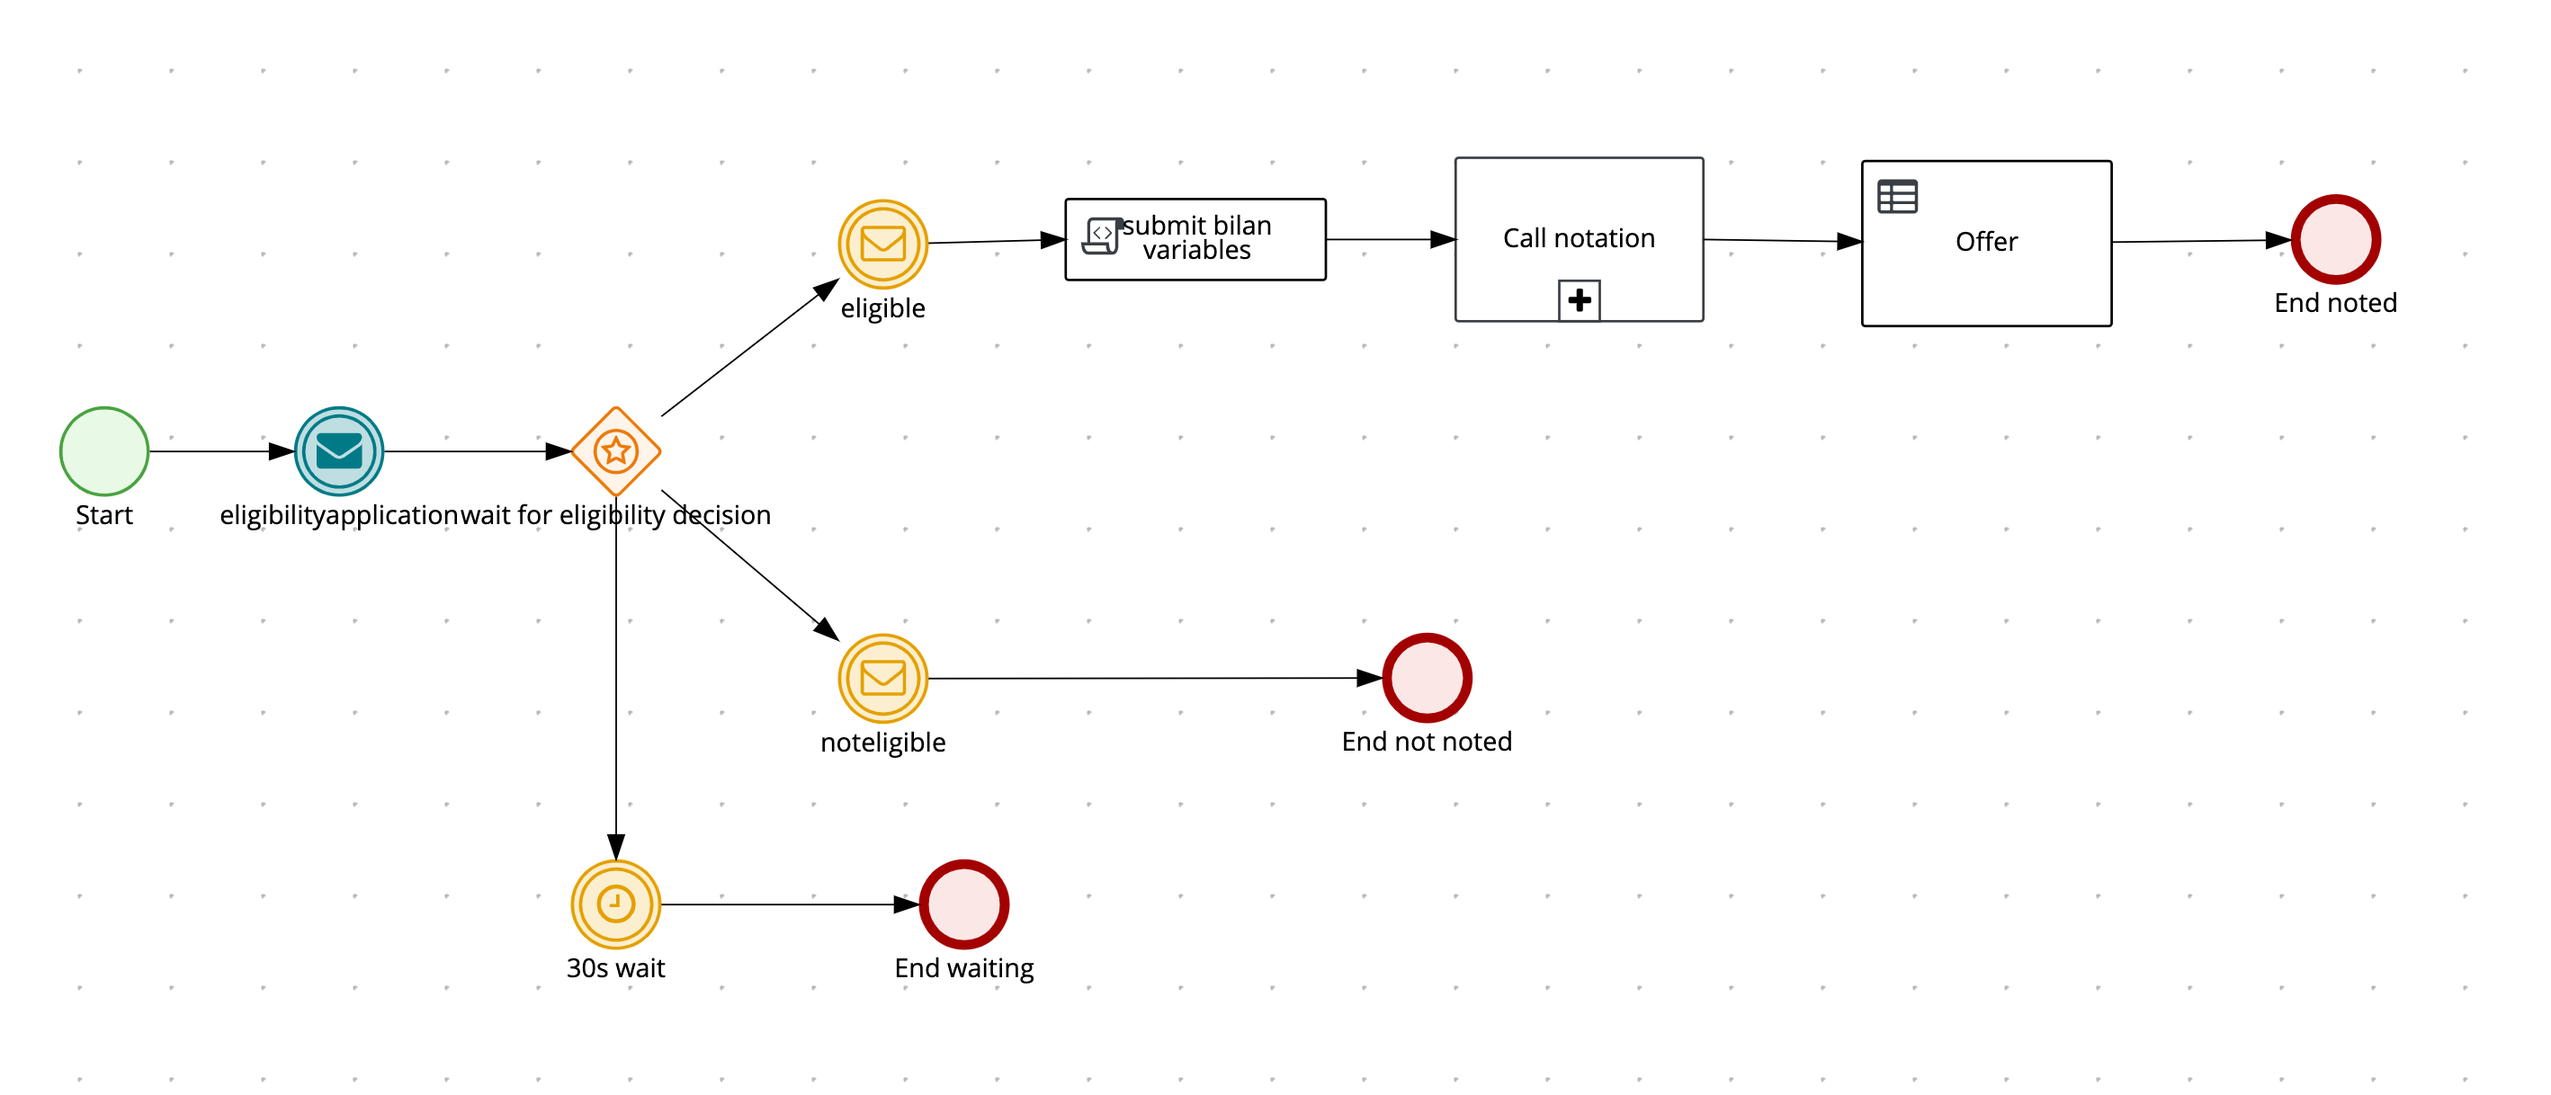
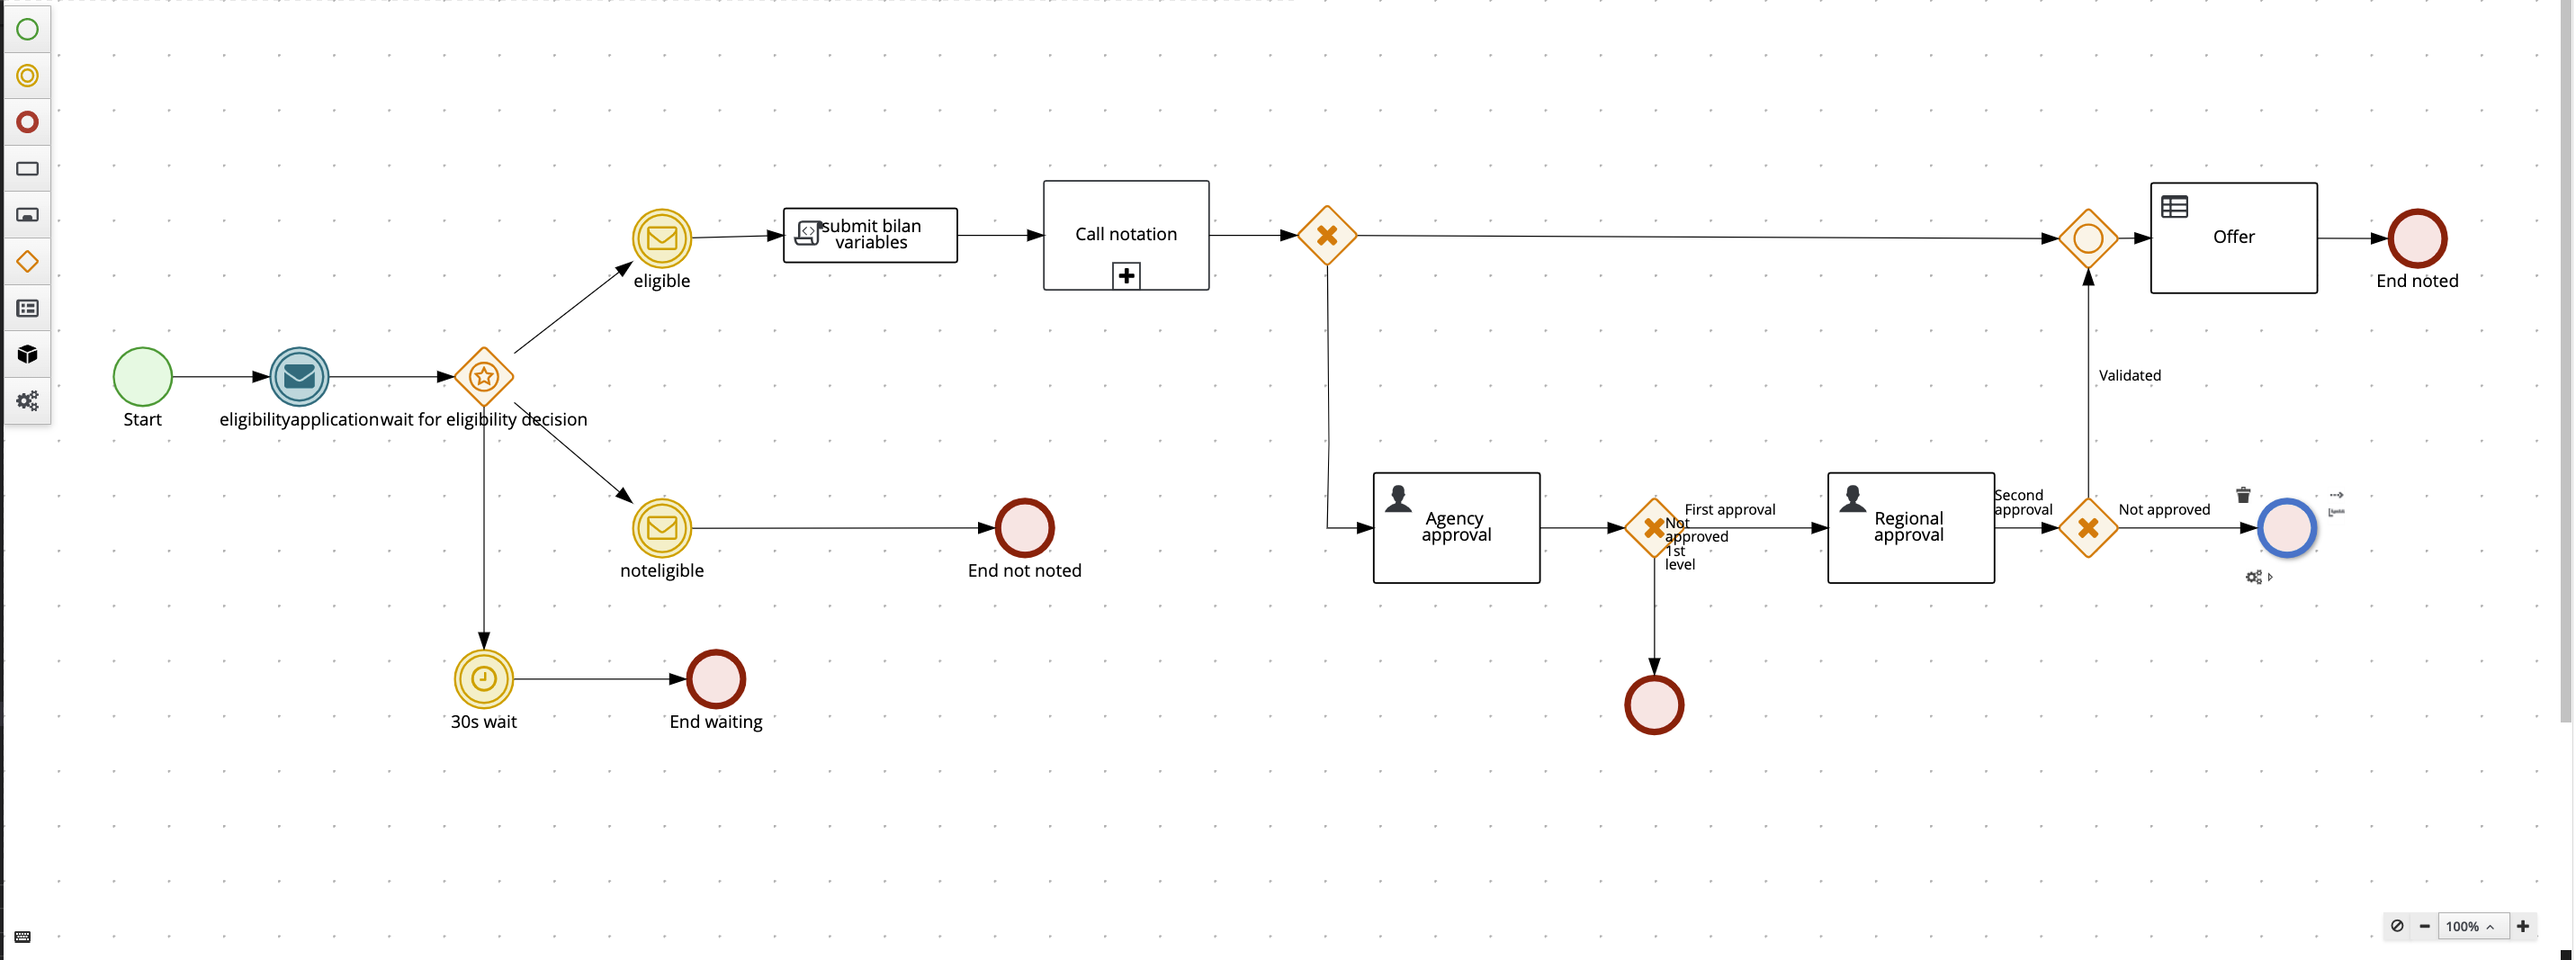
typo images

diff --git a/README.md b/README.md
@@ -20,10 +20,12 @@ If so, the “loan process” invokes the “scoring process” to calculate a R
 Finally, the « loan process » makes an offer for
 « The applicant », which is composed of a credit rate and a term (for example 2% and 36 months).
 
+If the guidance is "To review", the decision to accept or refuse the requet must be approved by 2 level of managers (agency and regional). 
+
 
 Clear ? Yes ? If not,  maybe the following diagram will gives more clarity on the orchestration between services. 
 
-![Archi](./img/archi-fonctionnelle-bbank-loan.png) 
+![Archi](./img/archi-fonctionnelle-bbank-apps-loan.png) 
 
 Let’s go deeper on each service :
 
@@ -130,7 +132,7 @@ git clone -b v2 https://github.com/mouachan/bbank-apps.git
 ### Install RHSSO Operator
 Navigate to the OLM Web Console to navigate to the RHSSO Operator using menu on the left side and following Operators → OperatorHub. Then, focus on the search input box and type « rhsso »  : 
 
-![Keycloak Operator HUB](./img/keycloak-ohub.png) 
+![RHSSO Operator HUB](./img/rhsso-ohub.png) 
 
 Next, navigate to RHSSO Operator and click on it. Next, follow the instructions on the screen. Make sure you’ve chosen « bank » namespace when selecting the Subscription in the next screen.
 
@@ -175,7 +177,7 @@ Click on  "add realm"
 Click on "Select file" (use the file ./manifest/services/kogito-realm.json)
 
 import the realm from ./manifest/services/bbank-realm.json
-![import kogito realm](./img/rhsso-import-relam.png)  
+![import kogito realm](./img/rhsso-import-realm.png)  
 
 It will create a realm "kogito", clients, users and credentials.
 
@@ -444,7 +446,7 @@ cd ..
 ```
 
 From the kogito operator, create the management-console
-![management console](./img/management-console.png) 
+![management console](./img/create-mgmt-console.png) 
 
 We have to deploy the task console from code, it's not included on the management console, we have to create a kogito service based on the latest task-console jar file.
 Get the file 
